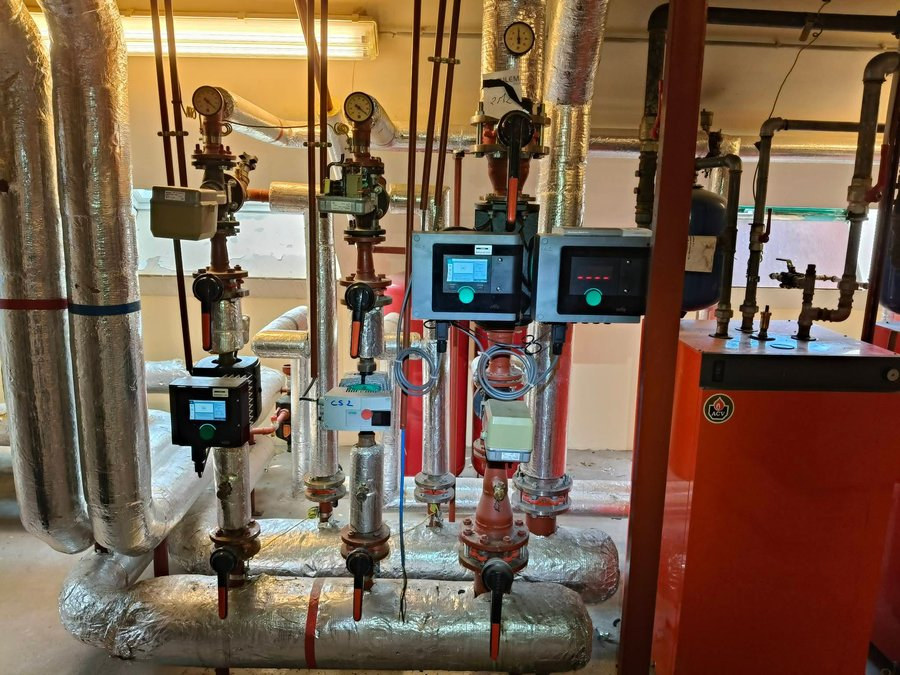
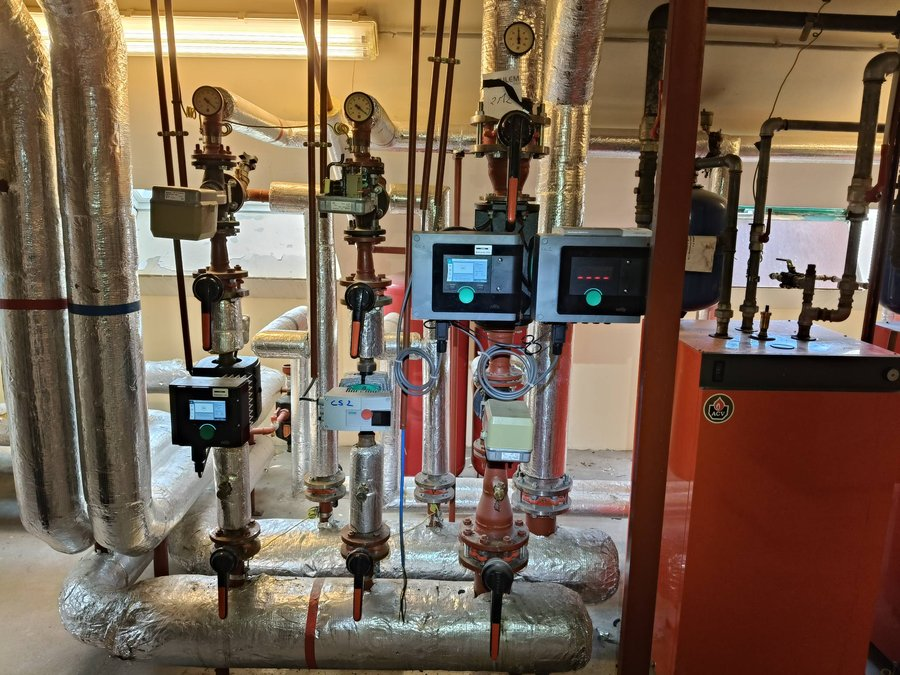
Add files via upload

diff --git a/realisations.html b/realisations.html
@@ -247,6 +247,27 @@ footer { background:#1A1A2E; color:rgba(255,255,255,0.75); padding:48px 5% 28px;
           <span style="font-size:0.78rem;color:var(--gray);">Intervention d&#39;urgence · Institution</span>
         </div>
       </div>
+      <div class="lb-card" data-lb="14" data-src="real-photo-13.jpg" data-title="Remplacement régulation chaudière et thermostat sans fil" data-sub="Mise en place thermostat sans fil · Installation complète" style="border-radius:16px;overflow:hidden;box-shadow:var(--shadow);cursor:pointer;transition:transform 0.2s;" onmouseover="this.style.transform='scale(1.02)'" onmouseout="this.style.transform='scale(1)'">
+        <img src="real-photo-13.jpg" alt="Remplacement régulation chaudière thermostat sans fil" style="width:100%;height:240px;object-fit:cover;object-position:center;display:block;">
+        <div style="padding:14px 16px;background:#fff;">
+          <strong style="font-family:'Poppins',sans-serif;font-size:0.9rem;display:block;margin-bottom:4px;">Remplacement régulation chaudière et thermostat sans fil</strong>
+          <span style="font-size:0.78rem;color:var(--gray);">Mise en place thermostat sans fil · Installation complète</span>
+        </div>
+      </div>
+      <div class="lb-card" data-lb="15" data-src="real-photo-14.jpg" data-title="Remplacement vanne 3 voies" data-sub="Dépannage · Distribution chauffage multicircuits" style="border-radius:16px;overflow:hidden;box-shadow:var(--shadow);cursor:pointer;transition:transform 0.2s;" onmouseover="this.style.transform='scale(1.02)'" onmouseout="this.style.transform='scale(1)'">
+        <img src="real-photo-14.jpg" alt="Remplacement vanne 3 voies" style="width:100%;height:240px;object-fit:cover;object-position:center;display:block;">
+        <div style="padding:14px 16px;background:#fff;">
+          <strong style="font-family:'Poppins',sans-serif;font-size:0.9rem;display:block;margin-bottom:4px;">Remplacement vanne 3 voies</strong>
+          <span style="font-size:0.78rem;color:var(--gray);">Dépannage · Distribution chauffage multicircuits</span>
+        </div>
+      </div>
+      <div class="lb-card" data-lb="16" data-src="real-photo-15.jpg" data-title="Remplacement double circulateur haut débit" data-sub="Tour d&#39;appartements 7 étages · Pompes Wilo haute performance" style="border-radius:16px;overflow:hidden;box-shadow:var(--shadow);cursor:pointer;transition:transform 0.2s;" onmouseover="this.style.transform='scale(1.02)'" onmouseout="this.style.transform='scale(1)'">
+        <img src="real-photo-15.jpg" alt="Remplacement double circulateur haut débit tour appartements" style="width:100%;height:240px;object-fit:cover;object-position:center;display:block;">
+        <div style="padding:14px 16px;background:#fff;">
+          <strong style="font-family:'Poppins',sans-serif;font-size:0.9rem;display:block;margin-bottom:4px;">Remplacement double circulateur haut débit</strong>
+          <span style="font-size:0.78rem;color:var(--gray);">Tour d&#39;appartements 7 étages · Pompes haute performance</span>
+        </div>
+      </div>
     </div>
   </div>
 
@@ -262,10 +283,10 @@ footer { background:#1A1A2E; color:rgba(255,255,255,0.75); padding:48px 5% 28px;
       </div>
     </div>
     <div style="display:grid;grid-template-columns:repeat(auto-fill,minmax(280px,1fr));gap:20px;">
-      <div class="lb-card" data-lb="10" data-src="real-photo-extra-0.jpg" data-title="Douche à l'italienne" data-sub="Salle de bain complète · Robinetterie & finitions soignées" style="border-radius:16px;overflow:hidden;box-shadow:var(--shadow);cursor:pointer;transition:transform 0.2s;" onmouseover="this.style.transform='scale(1.02)'" onmouseout="this.style.transform='scale(1)'">
+      <div class="lb-card" data-lb="10" data-src="real-photo-extra-0.jpg" data-title="Douche moderne" data-sub="Salle de bain complète · Robinetterie & finitions soignées" style="border-radius:16px;overflow:hidden;box-shadow:var(--shadow);cursor:pointer;transition:transform 0.2s;" onmouseover="this.style.transform='scale(1.02)'" onmouseout="this.style.transform='scale(1)'">
         <img src="real-photo-extra-0.jpg" alt="Douche à l'italienne - salle de bain complète" style="width:100%;height:240px;object-fit:cover;object-position:top center;display:block;">
         <div style="padding:14px 16px;background:#fff;">
-          <strong style="font-family:'Poppins',sans-serif;font-size:0.9rem;display:block;margin-bottom:4px;">Douche à l'italienne</strong>
+          <strong style="font-family:'Poppins',sans-serif;font-size:0.9rem;display:block;margin-bottom:4px;">Douche moderne</strong>
           <span style="font-size:0.78rem;color:var(--gray);">Salle de bain complète · Robinetterie & finitions soignées</span>
         </div>
       </div>
